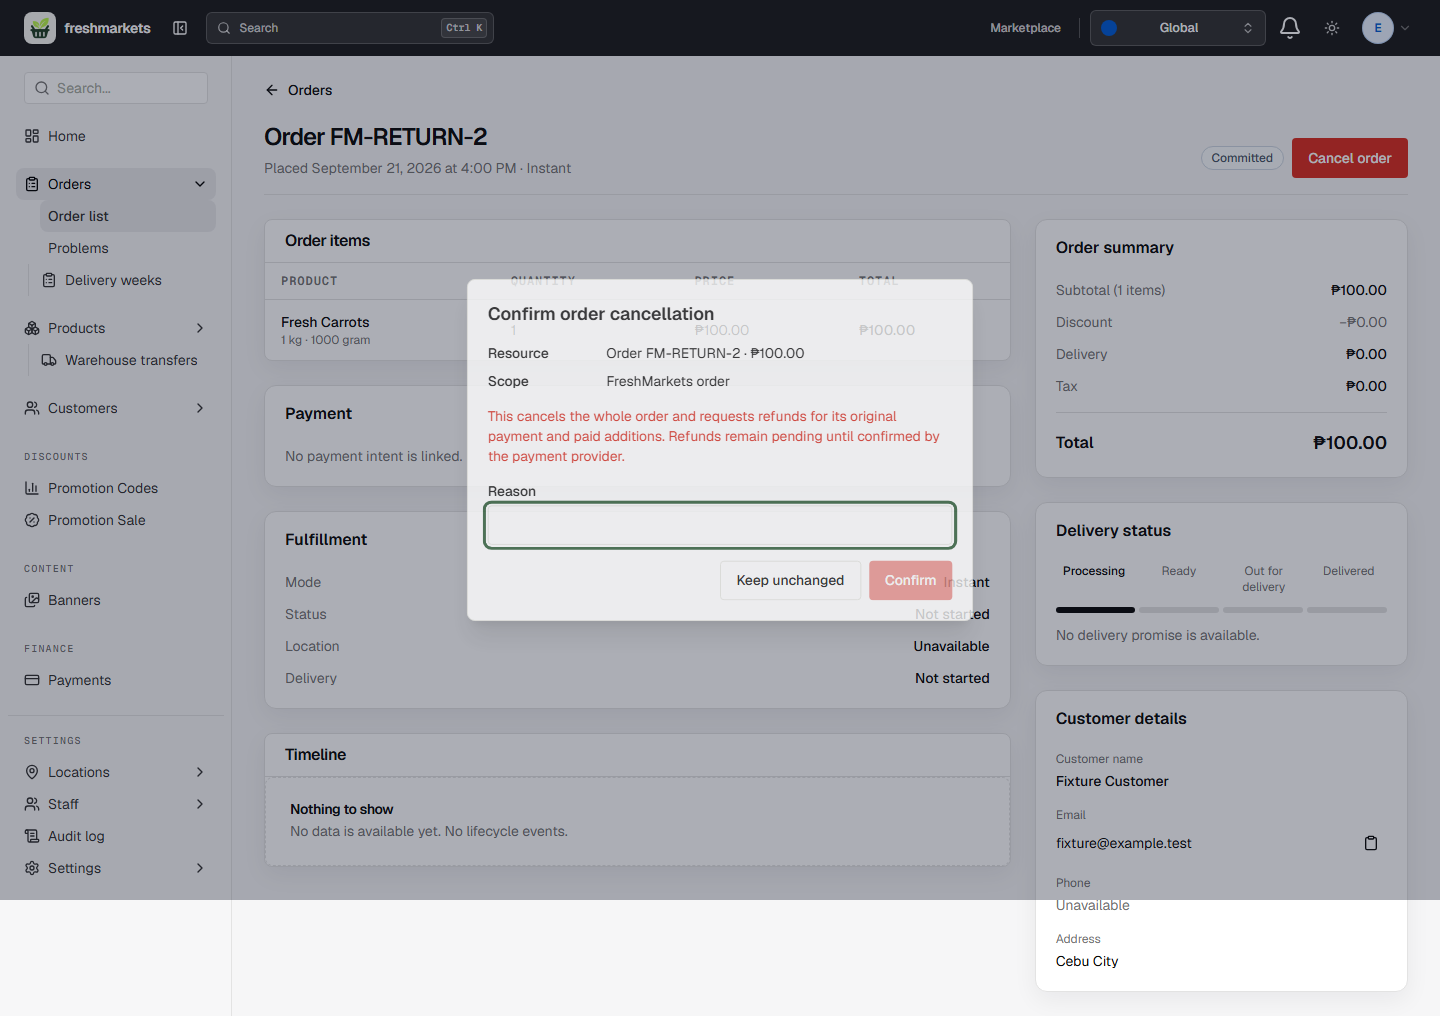
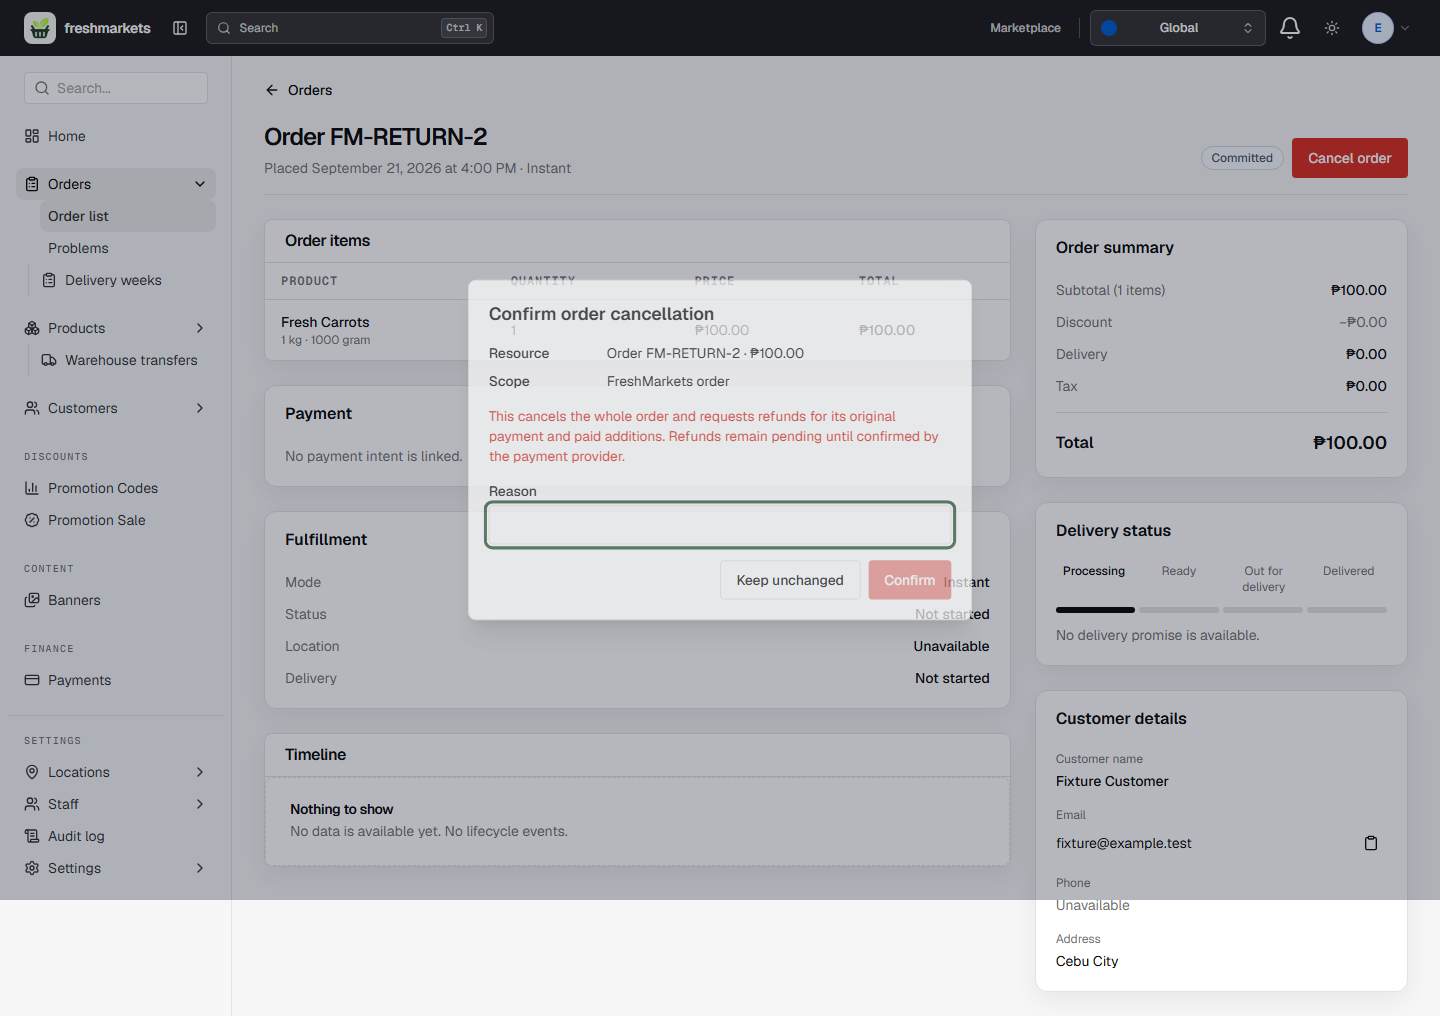
fix(admin): complete Orders pilot acceptance

diff --git a/apps/web/tests/admin-finance.spec.ts b/apps/web/tests/admin-finance.spec.ts
@@ -59,6 +59,135 @@ test("shared index views preserve the Problems status filter", async ({ adminPag
   await expect.poll(() => statuses.includes("CLAIMED")).toBe(true);
 });
 
+test("Orders shows loading, retryable error, and a truthful empty result", async ({
+  adminPage,
+}) => {
+  let attempts = 0;
+  await adminPage.route("**/api/admin/orders?**", async (route) => {
+    attempts += 1;
+    if (attempts === 1) {
+      await new Promise((resolve) => setTimeout(resolve, 500));
+      return route.fulfill({
+        contentType: "application/json",
+        body: JSON.stringify({
+          ok: false,
+          error: { code: "UNAVAILABLE", message: "Local read unavailable", requestId: "test-read" },
+        }),
+      });
+    }
+    return route.fulfill({
+      contentType: "application/json",
+      body: JSON.stringify({
+        ok: true,
+        requestId: "test-empty",
+        value: { items: [], nextCursor: null },
+      }),
+    });
+  });
+  await adminPage.goto("/admin/orders");
+  await expect(adminPage.getByRole("status").filter({ hasText: "Loading orders" })).toBeVisible();
+  await expect(adminPage.getByRole("alert")).toContainText("Local read unavailable");
+  await adminPage.getByRole("button", { name: "Retry" }).click();
+  await expect(
+    adminPage.getByRole("status").filter({ hasText: "No orders are visible" }),
+  ).toBeVisible();
+});
+
+test("Orders rejects a late response from the previous scope", async ({ adminPage }) => {
+  let requestCount = 0;
+  await adminPage.route("**/api/admin/orders?**", async (route) => {
+    requestCount += 1;
+    const old = requestCount === 1;
+    if (old) await new Promise((resolve) => setTimeout(resolve, 700));
+    return route.fulfill({
+      contentType: "application/json",
+      body: JSON.stringify({
+        ok: true,
+        requestId: "scope-read-test",
+        value: {
+          items: [
+            {
+              orderId: old ? "old-scope-order" : "new-scope-order",
+              orderNumber: old ? "FM-OLD-SCOPE" : "FM-NEW-SCOPE",
+              customerName: "Fixture Customer",
+              customerEmail: "fixture@example.test",
+              fulfillmentMode: "INSTANT",
+              status: "COMMITTED",
+              totalMinor: 10000,
+              currency: "PHP",
+              paymentStatus: "SUCCEEDED",
+              fulfillmentStatus: "NOT_STARTED",
+              deliveryStatus: null,
+              deliveryDispatchStatus: null,
+              deliveryProviderStatus: null,
+              committedAt: "2026-09-21T08:00:00.000Z",
+              version: 1,
+            },
+          ],
+          nextCursor: null,
+        },
+      }),
+    });
+  });
+  await adminPage.goto("/admin/orders");
+  const selector = adminPage.getByRole("combobox", { name: "Active admin scope" });
+  await selector.click();
+  await adminPage.getByRole("option", { name: "Central Cebu", exact: true }).click();
+  await expect(selector).toContainText("Central Cebu");
+  await expect(adminPage.getByRole("link", { name: "FM-NEW-SCOPE" })).toBeVisible();
+  await expect(adminPage.getByRole("link", { name: "FM-OLD-SCOPE" })).toHaveCount(0);
+  expect(requestCount).toBeGreaterThanOrEqual(2);
+});
+
+test("Orders Back restores the list scroll position within the same scope", async ({
+  adminPage,
+}) => {
+  const items = Array.from({ length: 40 }, (_, index) => ({
+    orderId: `scroll-order-${index}`,
+    orderNumber: `FM-SCROLL-${index}`,
+    customerName: "Fixture Customer",
+    customerEmail: "fixture@example.test",
+    fulfillmentMode: "INSTANT",
+    status: "COMMITTED",
+    totalMinor: 10000,
+    currency: "PHP",
+    paymentStatus: "SUCCEEDED",
+    fulfillmentStatus: "NOT_STARTED",
+    deliveryStatus: null,
+    deliveryDispatchStatus: null,
+    deliveryProviderStatus: null,
+    committedAt: "2026-09-21T08:00:00.000Z",
+    version: 1,
+  }));
+  await adminPage.route("**/api/admin/orders?**", (route) =>
+    route.fulfill({
+      contentType: "application/json",
+      body: JSON.stringify({
+        ok: true,
+        requestId: "scroll-test",
+        value: { items, nextCursor: null },
+      }),
+    }),
+  );
+  await adminPage.route("**/api/admin/orders/scroll-order-39", (route) =>
+    route.fulfill({
+      contentType: "application/json",
+      body: JSON.stringify({ ok: false, error: { code: "NOT_FOUND", message: "Fixture detail" } }),
+    }),
+  );
+  await adminPage.goto("/admin/orders");
+  const last = adminPage.getByRole("link", { name: "FM-SCROLL-39" });
+  await last.scrollIntoViewIfNeeded();
+  const before = await adminPage.evaluate(() => window.scrollY);
+  expect(before).toBeGreaterThan(100);
+  await last.click();
+  await adminPage.getByRole("link", { name: "Orders", exact: true }).last().click();
+  await expect(last).toBeVisible();
+  await expect
+    .poll(async () => Math.abs((await adminPage.evaluate(() => window.scrollY)) - before))
+    .toBeLessThan(50);
+});
+
 test("Order number opens the record and Back restores the filtered cursor page", async ({
   adminPage,
 }) => {
@@ -205,6 +334,7 @@ test("Order number opens the record and Back restores the filtered cursor page",
   }
   await adminPage.getByRole("button", { name: "Keep unchanged" }).click();
   await expect(adminPage.getByRole("alertdialog")).toHaveCount(0);
+  await expect(adminPage.getByRole("button", { name: "Cancel order" })).toBeFocused();
   await adminPage.setViewportSize({ width: 390, height: 844 });
   expect(
     await adminPage.evaluate(() => document.documentElement.scrollWidth <= window.innerWidth),
@@ -558,18 +688,23 @@ test("order cancellation succeeds with capability and is denied without it", asy
     INSERT INTO grocery_order (id, customer_id, cycle_id, fulfillment_mode, address_snapshot_json, status, total_minor, currency, payment_id, version, created_at)
       VALUES ('${orderId}', '${customerId}', 'cycle-next-cebu', 'SCHEDULED', '{}', 'PENDING_PAYMENT', 500, 'PHP', '${paymentId}', 1, ${now});
   `);
-  const data = { reason: "E2E cancellation", expectedVersion: 1 };
-  const allowed = await adminPage.request.post(`/api/admin/orders/${orderId}/cancel`, {
-    data,
-    headers: { "idempotency-key": crypto.randomUUID() },
-  });
-  const allowedBody = await allowed.json();
-  expect(allowedBody, JSON.stringify(allowedBody)).toMatchObject({
-    ok: true,
-    value: { state: "CANCELED", cancellation: null },
-  });
+  await adminPage.goto("/admin/orders");
+  await adminPage.getByRole("link", { name: orderId }).click();
+  await expect(
+    adminPage.getByRole("heading", { level: 1, name: `Order ${orderId}` }),
+  ).toBeVisible();
+  await adminPage.getByRole("button", { name: "Cancel order" }).click();
+  await adminPage.getByLabel("Confirmation reason").fill("E2E cancellation");
+  await adminPage.getByRole("button", { name: "Confirm" }).click();
+  await expect(adminPage.getByRole("status").filter({ hasText: "Order canceled" })).toBeVisible();
+  await expect(adminPage.getByRole("button", { name: "Cancel order" })).toHaveCount(0);
+  await expect(adminPage.getByText("Canceled", { exact: true }).first()).toBeVisible();
+  const updated = await adminPage.request.get(`/api/admin/orders/${orderId}`);
+  expect(await updated.json()).toMatchObject({ ok: true, value: { status: "CANCELED" } });
+  await adminPage.getByRole("link", { name: "Orders", exact: true }).last().click();
+  await expect(adminPage.getByRole("link", { name: orderId })).toBeVisible();
   const denied = await deniedAdminPage.request.post(`/api/admin/orders/${orderId}/cancel`, {
-    data: { ...data, expectedVersion: 2 },
+    data: { reason: "E2E denied cancellation", expectedVersion: 2 },
     headers: { "idempotency-key": crypto.randomUUID() },
   });
   expect(await denied.json()).toMatchObject({ ok: false, error: { code: "FORBIDDEN" } });

diff --git a/apps/web/app/admin/orders/page.tsx b/apps/web/app/admin/orders/page.tsx
@@ -6,7 +6,7 @@ import type {
   AdminOrderSummary,
   RpcResult,
 } from "@freshmarkets/contracts";
-import { Clipboard, EllipsisVertical, Eye, X } from "lucide-react";
+import { Clipboard, EllipsisVertical, Eye } from "lucide-react";
 import Link from "next/link";
 import { useSearchParams } from "next/navigation";
 import { useCallback, useEffect, useRef, useState } from "react";
@@ -22,7 +22,6 @@ import { PageHeader } from "../../../components/admin/admin-shell";
 import { OrderProgressStatus } from "../../../components/admin/order-progress-status";
 import { OrderPreviewPanel } from "../../../components/admin/order-preview-panel";
 import { Button } from "../../../components/ui/button";
-import { Checkbox } from "../../../components/ui/checkbox";
 import {
   DropdownMenu,
   DropdownMenuContent,
@@ -82,7 +81,6 @@ function OrdersWorkspace({ scopeKey }: { scopeKey: string }) {
   const searchParams = useSearchParams();
   const requestedStatus = searchParams.get("status") ?? "";
   const status = orderViews.some((view) => view.status === requestedStatus) ? requestedStatus : "";
-  const [selectedIds, setSelectedIds] = useState<ReadonlySet<string>>(new Set());
   const [copiedId, setCopiedId] = useState<string | null>(null);
   const [selectedOrder, setSelectedOrder] = useState<AdminOrderSummary | null>(null);
   const [panelOpen, setPanelOpen] = useState(false);
@@ -141,7 +139,6 @@ function OrdersWorkspace({ scopeKey }: { scopeKey: string }) {
         return;
       }
       setPage(payload.value);
-      setSelectedIds(new Set());
       setState({ phase: "ready" });
     } catch {
       if (version !== requestVersion.current) return;
@@ -157,18 +154,6 @@ function OrdersWorkspace({ scopeKey }: { scopeKey: string }) {
   }, [status, load, pagination.cursor]);
 
   const visibleOrders = page?.items ?? [];
-  const allSelected = visibleOrders.length > 0 && selectedIds.size === visibleOrders.length;
-  const someSelected = selectedIds.size > 0 && !allSelected;
-
-  function selectOrder(orderId: string, checked: boolean) {
-    setSelectedIds((current) => {
-      const next = new Set(current);
-      if (checked) next.add(orderId);
-      else next.delete(orderId);
-      return next;
-    });
-  }
-
   async function copyOrderId(order: AdminOrderSummary) {
     const value = order.orderNumber ?? order.orderId;
     await navigator.clipboard.writeText(value);
@@ -212,23 +197,6 @@ function OrdersWorkspace({ scopeKey }: { scopeKey: string }) {
           onChange={selectView}
         />
 
-        {selectedIds.size > 0 ? (
-          <div className="flex min-h-14 items-center justify-between gap-3 border-b border-[var(--fm-border)] px-4 py-2.5">
-            <p className="text-sm font-medium" role="status" aria-live="polite">
-              {selectedIds.size} selected
-            </p>
-            <Button
-              type="button"
-              size="sm"
-              variant="outline"
-              onClick={() => setSelectedIds(new Set())}
-            >
-              <X aria-hidden="true" />
-              Clear selection
-            </Button>
-          </div>
-        ) : null}
-
         {copiedId ? (
           <p className="sr-only" role="status">
             Order ID copied.
@@ -264,11 +232,6 @@ function OrdersWorkspace({ scopeKey }: { scopeKey: string }) {
               {visibleOrders.map((order) => (
                 <li key={order.orderId} className="space-y-3 p-4">
                   <div className="flex min-w-0 items-start gap-3">
-                    <Checkbox
-                      aria-label={`Select order ${orderLabel(order)}`}
-                      checked={selectedIds.has(order.orderId)}
-                      onCheckedChange={(checked) => selectOrder(order.orderId, checked === true)}
-                    />
                     <div className="min-w-0 flex-1">
                       <Link
                         href={recordHref(order)}
@@ -283,7 +246,7 @@ function OrdersWorkspace({ scopeKey }: { scopeKey: string }) {
                     </div>
                     <OrderProgressStatus order={order} />
                   </div>
-                  <div className="flex items-center justify-between gap-3 pl-7 text-sm">
+                  <div className="flex items-center justify-between gap-3 text-sm">
                     <span className="text-[var(--fm-text-muted)]">
                       {date(order.committedAt)} · {order.fulfillmentMode.toLowerCase()}
                     </span>
@@ -293,7 +256,6 @@ function OrdersWorkspace({ scopeKey }: { scopeKey: string }) {
                     type="button"
                     variant="ghost"
                     size="sm"
-                    className="ml-7"
                     onClick={() => openOrderPreview(order)}
                   >
                     Preview order
@@ -305,19 +267,6 @@ function OrdersWorkspace({ scopeKey }: { scopeKey: string }) {
               <Table aria-label="Order list">
                 <TableHeader>
                   <TableRow>
-                    <TableHead className="w-11">
-                      <Checkbox
-                        aria-label="Select all orders on this page"
-                        checked={someSelected ? "indeterminate" : allSelected}
-                        onCheckedChange={(checked) =>
-                          setSelectedIds(
-                            checked === true
-                              ? new Set(visibleOrders.map((order) => order.orderId))
-                              : new Set(),
-                          )
-                        }
-                      />
-                    </TableHead>
                     <TableHead>Order ID</TableHead>
                     <TableHead>Customer</TableHead>
                     <TableHead>Type</TableHead>
@@ -333,7 +282,6 @@ function OrdersWorkspace({ scopeKey }: { scopeKey: string }) {
                   {visibleOrders.map((order) => (
                     <TableRow
                       key={order.orderId}
-                      data-state={selectedIds.has(order.orderId) ? "selected" : undefined}
                       tabIndex={0}
                       aria-label={`Preview order ${orderLabel(order)}`}
                       className="cursor-pointer focus-visible:outline-none focus-visible:ring-2 focus-visible:ring-inset focus-visible:ring-[var(--fm-focus)]"
@@ -352,15 +300,6 @@ function OrdersWorkspace({ scopeKey }: { scopeKey: string }) {
                         }
                       }}
                     >
-                      <TableCell>
-                        <Checkbox
-                          aria-label={`Select order ${orderLabel(order)}`}
-                          checked={selectedIds.has(order.orderId)}
-                          onCheckedChange={(checked) =>
-                            selectOrder(order.orderId, checked === true)
-                          }
-                        />
-                      </TableCell>
                       <TableCell>
                         <Link
                           href={recordHref(order)}

diff --git a/apps/web/app/admin/orders/[order-id]/page.tsx b/apps/web/app/admin/orders/[order-id]/page.tsx
@@ -5,7 +5,7 @@ import type { AdminOrderDetail, RpcResult } from "@freshmarkets/contracts";
 import { ArrowLeft, Clipboard, Phone } from "lucide-react";
 import Link from "next/link";
 import { useSearchParams } from "next/navigation";
-import { useCallback, useEffect, useState } from "react";
+import { useCallback, useEffect, useRef, useState } from "react";
 import { useAdminCommandIntent } from "../../../../components/admin/admin-command-state";
 import { useAdminContext } from "../../admin-context-provider";
 import {
@@ -99,6 +99,7 @@ export default function OrderDetailPage({ params }: { params: Promise<{ "order-i
   const [state, setState] = useState<"loading" | "ready" | "error">("loading");
   const [message, setMessage] = useState<string | null>(null);
   const [confirming, setConfirming] = useState(false);
+  const cancelTrigger = useRef<HTMLButtonElement>(null);
   const cancelIntent = useAdminCommandIntent();
   const [savedCancellation, setSavedCancellation] = useState<{
     orderId: string;
@@ -231,12 +232,13 @@ export default function OrderDetailPage({ params }: { params: Promise<{ "order-i
         <>
           <PageHeader
             title={`Order ${order.orderNumber ?? order.orderId}`}
-            description={`Placed ${dateTime(order.committedAt)} · ${order.fulfillmentMode === "INSTANT" ? "Instant" : "Scheduled"}`}
+            description={`${order.committedAt ? `Placed ${dateTime(order.committedAt)}` : "Not yet committed"} · ${order.fulfillmentMode === "INSTANT" ? "Instant" : "Scheduled"}`}
             action={
               <div className="flex flex-wrap items-center gap-2">
                 <OrderStatusBadge status={order.status} />
                 {order.allowedActions.includes("CANCEL") ? (
                   <Button
+                    ref={cancelTrigger}
                     type="button"
                     variant="destructive"
                     disabled={cancelIntent.pending || savedCancellation !== null}
@@ -667,6 +669,7 @@ export default function OrderDetailPage({ params }: { params: Promise<{ "order-i
             resource={`Order ${order.orderNumber ?? order.orderId} · ${money(order.totalMinor, order.currency)}`}
             scope="FreshMarkets order"
             consequence="This cancels the whole order and requests refunds for its original payment and paid additions. Refunds remain pending until confirmed by the payment provider."
+            restoreFocusRef={cancelTrigger}
             pending={cancelIntent.pending}
             onCancel={() => setConfirming(false)}
             onConfirm={(confirmedReason) => void cancel(confirmedReason)}
